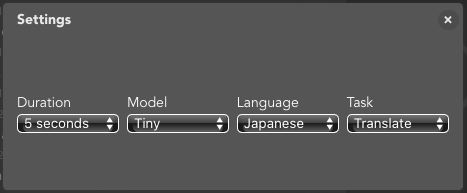
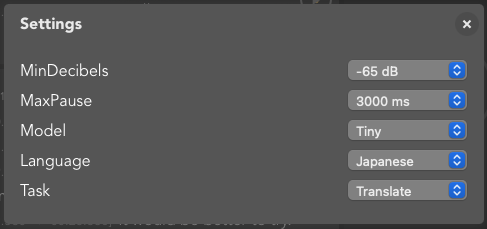
refactor code

diff --git a/pages/index.js b/pages/index.js
@@ -91,7 +91,7 @@ class Page extends React.Component {
 
         this.MAX_COUNT = 10
         this.MIN_DECIBELS = -45
-        this.MAX_PAUSE = 2500
+        this.MAX_PAUSE = 3000
 
         this.animFrame = null
         this.countTimer = null
@@ -611,7 +611,9 @@ class Page extends React.Component {
                             {
                                 this.state.started &&
                                 <div className={classes.soundLevel}>
-                                    <AnimatedBars start={this.state.recording} />
+                                    <AnimatedBars 
+                                    start={this.state.recording}
+                                    />
                                 </div>
                             }
                         </div>

diff --git a/pages/components/message.js b/pages/components/message.js
@@ -2,8 +2,6 @@ import React from 'react'
 
 import classes from './message.module.css'
 
-//import Play from './play'
-//import Pause from './pause'
 import Arrow from './arrow'
 
 import IconButton from './iconbutton'
@@ -101,7 +99,7 @@ function Message({ id, texts, duration, mode, disabled, onClick }) {
                         displayOff={true}
                         displayOther={true}
                         displayValue={display_value}
-                        size={24}
+                        size={32}
                         lineWidth={2}
                         lineColor="#999"
                         backgroundColor="#444"

diff --git a/pages/components/message.module.css b/pages/components/message.module.css
@@ -35,8 +35,8 @@
 
 .action {
     position: relative;
-    width: 24px;
-    height: 24px;
+    width: 32px;
+    height: 32px;
     box-sizing: border-box;
 }
 
@@ -44,8 +44,8 @@
     position: absolute;
     left: 0;
     top: 0;
-    width: 24px;
-    height: 24px;
+    width: 32px;
+    height: 32px;
     box-sizing: border-box;
     z-index: 1;
 }
@@ -53,8 +53,8 @@
     position: absolute;
     left: 0;
     top: 0;
-    width: 24px;
-    height: 24px;
+    width: 32px;
+    height: 32px;
     box-sizing: border-box;
     z-index: 2;
     display: flex;

diff --git a/pages/components/progress.js b/pages/components/progress.js
@@ -63,7 +63,7 @@ export default function Progress({ size, lineWidth, displayOff, displayOther = f
             }
             .text2 {
                 font-family: helvetica, arial, sans-serif;
-                font-size: 0.4em;
+                font-size: 0.6em;
                 font-weight: 600;
                 color: #FFD167;
             }

diff --git a/pages/components/progress.module.css b/pages/components/progress.module.css
@@ -6,12 +6,12 @@
     overflow: hidden;
 }
 .inner {
-    /*background-color: #555;*/
     position: relative;
     width: 100%;
     height: 100%;
     border-radius: 50%;
     overflow: hidden;
+    box-sizing: border-box;
 }
 .display {
     background-color: #333;

diff --git a/pages/index.module.css b/pages/index.module.css
@@ -6,7 +6,6 @@
     justify-content: center;
     align-items: center;
     flex-direction: column;
-    opacity: 0.4;
 }
 
 .panelMessages {
